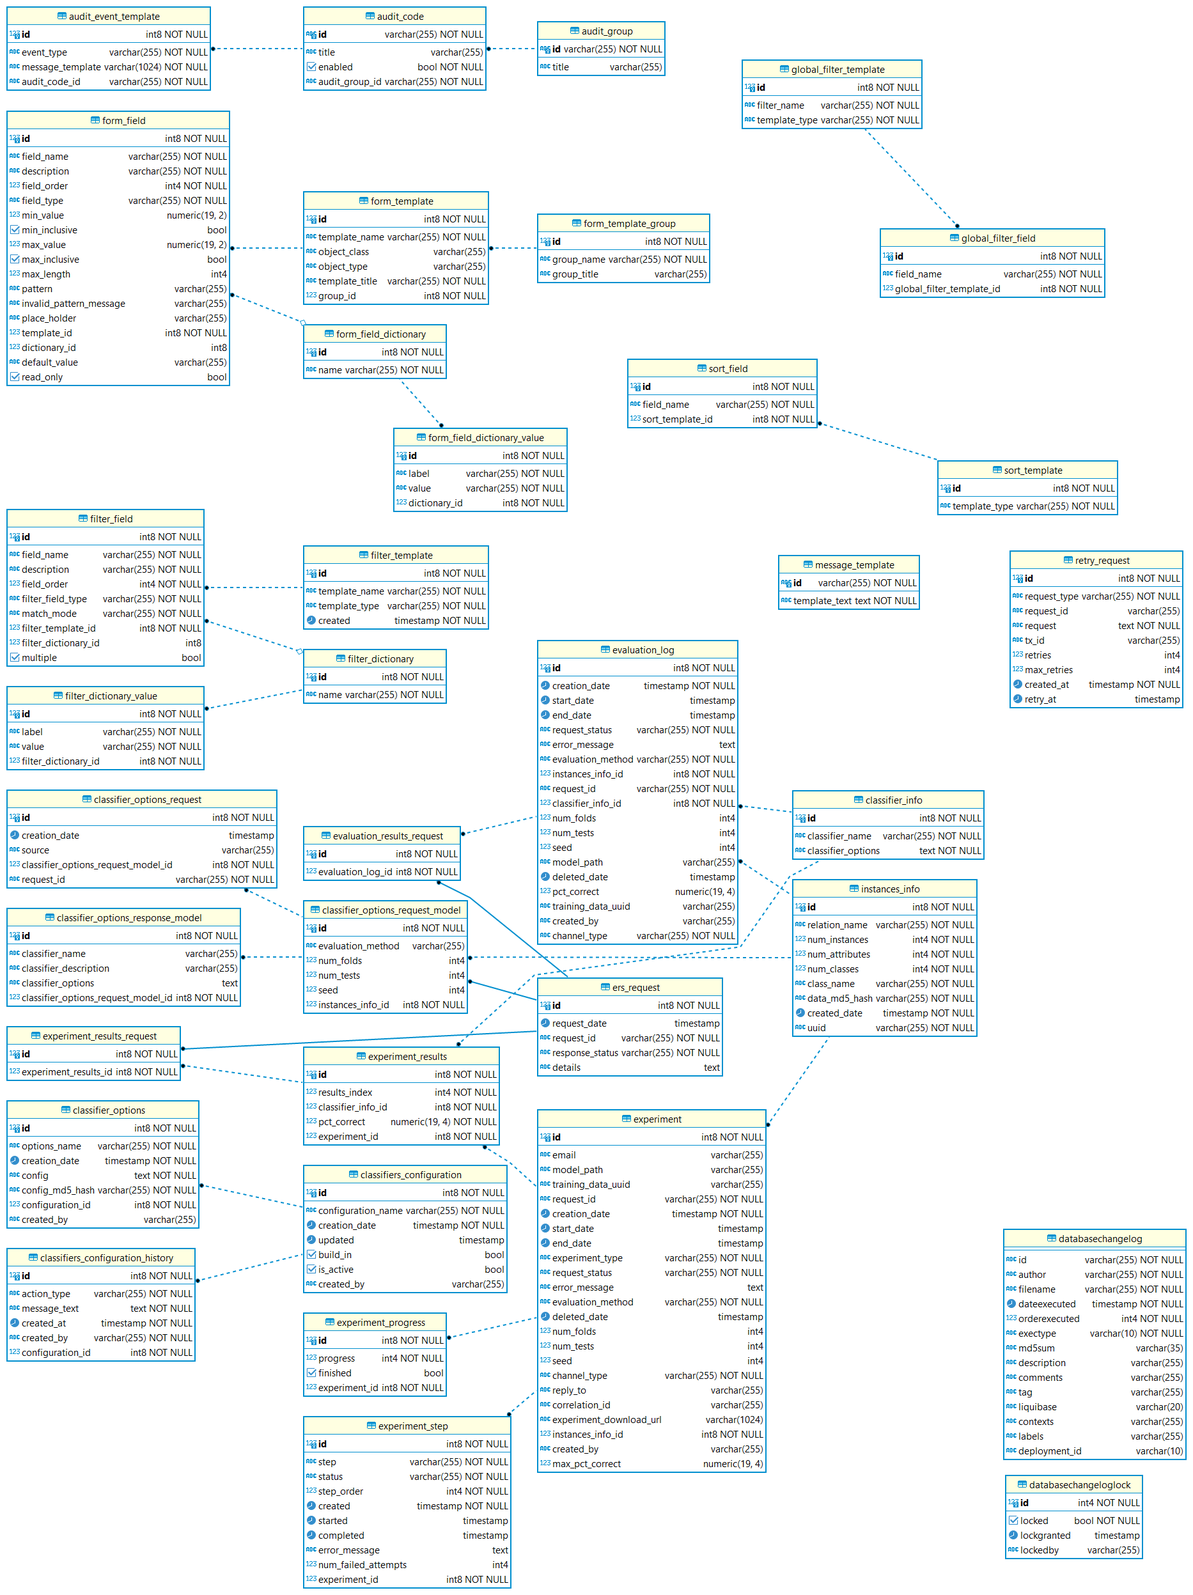
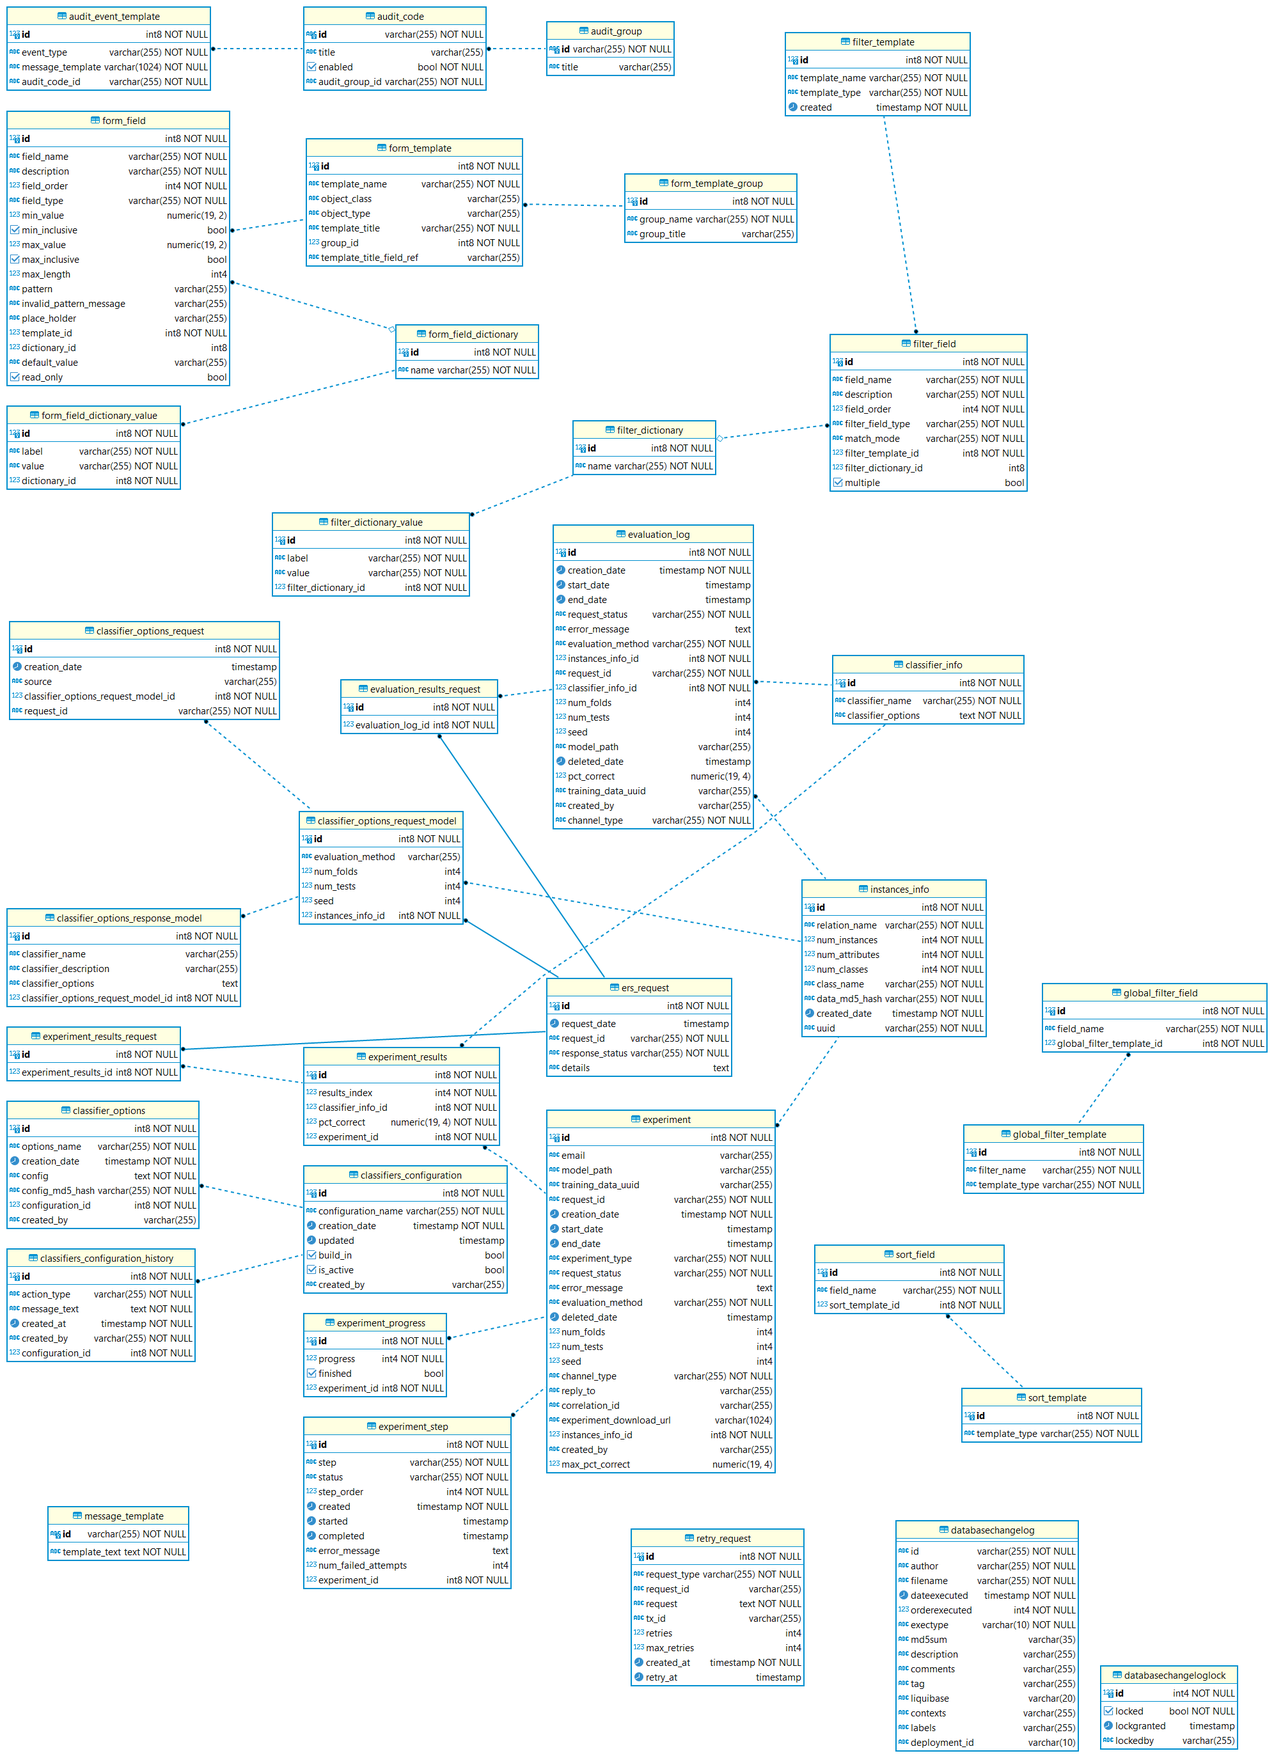
ECS-5 added FormTemplateDto#templateTitleFieldRef field

diff --git a/eca-server/src/test/java/com/ecaservice/server/service/classifiers/ClassifierOptionsServiceTest.java b/eca-server/src/test/java/com/ecaservice/server/service/classifiers/ClassifierOptionsServiceTest.java
@@ -1,6 +1,7 @@
 package com.ecaservice.server.service.classifiers;
 
 import com.ecaservice.classifier.options.model.AdaBoostOptions;
+import com.ecaservice.classifier.options.model.ClassifierOptions;
 import com.ecaservice.classifier.options.model.LogisticOptions;
 import com.ecaservice.common.web.exception.EntityNotFoundException;
 import com.ecaservice.core.filter.service.FilterTemplateService;
@@ -26,6 +27,8 @@ import com.google.common.collect.Sets;
 import org.junit.jupiter.api.Test;
 import org.springframework.boot.test.mock.mockito.MockBean;
 import org.springframework.context.annotation.Import;
+import org.testcontainers.shaded.com.fasterxml.jackson.core.JsonProcessingException;
+import org.testcontainers.shaded.com.fasterxml.jackson.databind.ObjectMapper;
 
 import javax.inject.Inject;
 import java.util.Arrays;
@@ -35,9 +38,11 @@ import java.util.Set;
 
 import static com.ecaservice.server.TestHelperUtils.createClassifierOptionsDatabaseModel;
 import static com.ecaservice.server.TestHelperUtils.createClassifiersConfiguration;
+import static com.ecaservice.server.TestHelperUtils.createLogisticOptions;
 import static com.ecaservice.server.model.entity.ClassifierOptionsDatabaseModel_.CREATION_DATE;
 import static org.assertj.core.api.Assertions.assertThat;
 import static org.junit.jupiter.api.Assertions.assertThrows;
+import static org.mockito.ArgumentMatchers.any;
 import static org.mockito.ArgumentMatchers.anyMap;
 import static org.mockito.ArgumentMatchers.anyString;
 import static org.mockito.Mockito.when;
@@ -54,7 +59,6 @@ class ClassifierOptionsServiceTest extends AbstractJpaTest {
 
     private static final int PAGE_NUMBER = 0;
     private static final int PAGE_SIZE = 10;
-    private static final String OPTIONS = "options";
     private static final long ID = 1L;
     private static final String USER_NAME = "user";
     private static final String MESSAGE = "message";
@@ -79,8 +83,13 @@ class ClassifierOptionsServiceTest extends AbstractJpaTest {
     @Inject
     private ClassifierOptionsService classifierOptionsService;
 
+    private final ObjectMapper objectMapper = new ObjectMapper();
+
+    private String optionsJson;
+
     @Override
-    public void init() {
+    public void init() throws JsonProcessingException {
+        optionsJson = objectMapper.writeValueAsString(createLogisticOptions());
         when(userService.getCurrentUser()).thenReturn(USER_NAME);
         var formTemplate = new FormTemplateDto();
         formTemplate.setTemplateTitle(TEMPLATE_TITLE);
@@ -97,7 +106,7 @@ class ClassifierOptionsServiceTest extends AbstractJpaTest {
 
     @Test
     void testGetClassifiersOptionsPage() {
-        when(classifierOptionsProcessor.processInputOptions(anyString()))
+        when(classifierOptionsProcessor.processInputOptions(any(ClassifierOptions.class)))
                 .thenReturn(Collections.singletonList(new InputOptionDto()));
         ClassifierOptionsDatabaseModel classifierOptionsDatabaseModel = saveClassifierOptions(true);
         PageRequestDto pageRequestDto =
@@ -143,7 +152,7 @@ class ClassifierOptionsServiceTest extends AbstractJpaTest {
     void testDeleteOptionsForActiveConfiguration() {
         ClassifierOptionsDatabaseModel classifierOptionsDatabaseModel = saveClassifierOptions(false);
         classifierOptionsDatabaseModelRepository.save(
-                createClassifierOptionsDatabaseModel(OPTIONS, classifierOptionsDatabaseModel.getConfiguration()));
+                createClassifierOptionsDatabaseModel(optionsJson, classifierOptionsDatabaseModel.getConfiguration()));
         classifierOptionsService.deleteOptions(classifierOptionsDatabaseModel.getId());
         ClassifierOptionsDatabaseModel actualOptions =
                 classifierOptionsDatabaseModelRepository.findById(classifierOptionsDatabaseModel.getId()).orElse(null);
@@ -161,7 +170,7 @@ class ClassifierOptionsServiceTest extends AbstractJpaTest {
         classifiersConfiguration.setBuildIn(false);
         classifiersConfigurationRepository.save(classifiersConfiguration);
         ClassifierOptionsDatabaseModel classifierOptionsDatabaseModel = classifierOptionsDatabaseModelRepository.save(
-                createClassifierOptionsDatabaseModel(OPTIONS, classifiersConfiguration));
+                createClassifierOptionsDatabaseModel(optionsJson, classifiersConfiguration));
         classifierOptionsService.deleteOptions(classifierOptionsDatabaseModel.getId());
         ClassifierOptionsDatabaseModel actualOptions =
                 classifierOptionsDatabaseModelRepository.findById(classifierOptionsDatabaseModel.getId()).orElse(null);
@@ -181,7 +190,7 @@ class ClassifierOptionsServiceTest extends AbstractJpaTest {
         classifiersConfiguration.setBuildIn(false);
         classifiersConfigurationRepository.save(classifiersConfiguration);
         ClassifierOptionsDatabaseModel classifierOptionsDatabaseModel =
-                createClassifierOptionsDatabaseModel(OPTIONS, classifiersConfiguration);
+                createClassifierOptionsDatabaseModel(optionsJson, classifiersConfiguration);
         classifierOptionsDatabaseModelRepository.save(classifierOptionsDatabaseModel);
         assertThrows(IllegalStateException.class,
                 () -> classifierOptionsService.deleteOptions(classifierOptionsDatabaseModel.getId()));
@@ -247,7 +256,7 @@ class ClassifierOptionsServiceTest extends AbstractJpaTest {
     void testUpdateNotBuildInClassifiersConfigurationOptions() {
         ClassifierOptionsDatabaseModel classifierOptionsDatabaseModel = saveClassifierOptions(false);
         Set<ClassifierOptionsDatabaseModel> classifierOptionsDatabaseModels = Sets.newHashSet(Collections.singletonList(
-                createClassifierOptionsDatabaseModel(OPTIONS, classifierOptionsDatabaseModel.getConfiguration())));
+                createClassifierOptionsDatabaseModel(optionsJson, classifierOptionsDatabaseModel.getConfiguration())));
         assertThrows(IllegalStateException.class, () -> classifierOptionsService.updateBuildInClassifiersConfiguration(
                 classifierOptionsDatabaseModel.getConfiguration(), classifierOptionsDatabaseModels));
     }
@@ -266,7 +275,7 @@ class ClassifierOptionsServiceTest extends AbstractJpaTest {
         classifiersConfiguration.setBuildIn(true);
         classifiersConfigurationRepository.save(classifiersConfiguration);
         classifierOptionsService.updateBuildInClassifiersConfiguration(classifiersConfiguration, Sets.newHashSet(
-                Collections.singletonList(createClassifierOptionsDatabaseModel(OPTIONS, classifiersConfiguration))));
+                Collections.singletonList(createClassifierOptionsDatabaseModel(optionsJson, classifiersConfiguration))));
         assertThat(classifierOptionsDatabaseModelRepository.count()).isOne();
         ClassifiersConfiguration actualConfiguration =
                 classifiersConfigurationRepository.findById(classifiersConfiguration.getId()).orElse(null);
@@ -345,7 +354,7 @@ class ClassifierOptionsServiceTest extends AbstractJpaTest {
         classifiersConfiguration.setBuildIn(buildIn);
         classifiersConfigurationRepository.save(classifiersConfiguration);
         ClassifierOptionsDatabaseModel classifierOptionsDatabaseModel =
-                createClassifierOptionsDatabaseModel(OPTIONS, classifiersConfiguration);
+                createClassifierOptionsDatabaseModel(optionsJson, classifiersConfiguration);
         return classifierOptionsDatabaseModelRepository.save(classifierOptionsDatabaseModel);
     }
 

diff --git a/eca-server/src/main/java/com/ecaservice/server/service/classifiers/ClassifierOptionsProcessor.java b/eca-server/src/main/java/com/ecaservice/server/service/classifiers/ClassifierOptionsProcessor.java
@@ -5,13 +5,11 @@ import com.ecaservice.classifier.options.model.AbstractHeterogeneousClassifierOp
 import com.ecaservice.classifier.options.model.ClassifierOptions;
 import com.ecaservice.classifier.options.model.StackingOptions;
 import com.ecaservice.common.web.expression.SpelExpressionHelper;
-import com.ecaservice.core.filter.service.FilterTemplateService;
 import com.ecaservice.server.model.entity.ClassifierInfo;
 import com.ecaservice.web.dto.model.ClassifierInfoDto;
 import com.ecaservice.web.dto.model.FieldDictionaryDto;
 import com.ecaservice.web.dto.model.FieldDictionaryValueDto;
 import com.ecaservice.web.dto.model.FieldType;
-import com.ecaservice.web.dto.model.FilterDictionaryValueDto;
 import com.ecaservice.web.dto.model.FormFieldDto;
 import com.ecaservice.web.dto.model.FormTemplateDto;
 import com.ecaservice.web.dto.model.InputOptionDto;
@@ -28,7 +26,6 @@ import java.util.List;
 import java.util.Objects;
 import java.util.stream.Collectors;
 
-import static com.ecaservice.server.service.filter.dictionary.FilterDictionaries.CLASSIFIER_NAME;
 import static com.ecaservice.server.util.ClassifierOptionsHelper.isEnsembleClassifierOptions;
 import static com.ecaservice.server.util.ClassifierOptionsHelper.parseOptions;
 import static com.ecaservice.server.util.ClassifierOptionsHelper.toJsonString;
@@ -48,7 +45,6 @@ public class ClassifierOptionsProcessor {
     private static final DecimalFormat DEFAULT_DECIMAL_FORMAT = NumericFormatFactory.getInstance(Integer.MAX_VALUE);
 
     private final ClassifiersTemplateProvider classifiersTemplateProvider;
-    private final FilterTemplateService filterTemplateService;
     private final ClassifiersOptionsConfig classifiersOptionsConfig;
     private final SpelExpressionHelper spelExpressionHelper = new SpelExpressionHelper();
 
@@ -65,12 +61,11 @@ public class ClassifierOptionsProcessor {
     /**
      * Processes classifier input options json string to human readable format.
      *
-     * @param classifierOptionsJson - classifier options json
+     * @param classifierOptions - classifier options
      * @return classifier options list
      */
-    public List<InputOptionDto> processInputOptions(String classifierOptionsJson) {
-        log.debug("Starting to process classifier options json [{}]", classifierOptionsJson);
-        var classifierOptions = parseOptions(classifierOptionsJson);
+    public List<InputOptionDto> processInputOptions(ClassifierOptions classifierOptions) {
+        log.debug("Starting to process classifier options json [{}]", classifierOptions);
         var template = getTemplate(classifierOptions);
         var inputOptions = processInputOptions(template, classifierOptions);
         log.debug("Classifier options json has been processed with result: {}", inputOptions);
@@ -86,11 +81,7 @@ public class ClassifierOptionsProcessor {
     public ClassifierInfoDto processClassifierInfo(ClassifierInfo classifierInfo) {
         log.debug("Starting to process classifier info [{}]", classifierInfo.getClassifierName());
         var classifierOptions = parseOptions(classifierInfo.getClassifierOptions());
-        ClassifierInfoDto classifierInfoDto = processClassifierOptions(classifierOptions);
-        classifierInfoDto.setClassifierName(classifierInfo.getClassifierName());
-        var classifierName = getClassifierNameLabel(classifierInfo.getClassifierName());
-        classifierInfoDto.setClassifierDescription(classifierName);
-        return classifierInfoDto;
+        return processClassifierOptions(classifierOptions);
     }
 
     /**
@@ -102,8 +93,9 @@ public class ClassifierOptionsProcessor {
     public ClassifierInfoDto processClassifierOptions(ClassifierOptions classifierOptions) {
         ClassifierInfoDto classifierInfoDto = new ClassifierInfoDto();
         var template = getTemplate(classifierOptions);
+        String templateTitle = processTemplateTitle(template, classifierOptions);
         classifierInfoDto.setClassifierName(template.getObjectClass());
-        classifierInfoDto.setClassifierDescription(template.getTemplateTitle());
+        classifierInfoDto.setClassifierDescription(templateTitle);
         classifierInfoDto.setClassifierOptionsJson(toJsonString(classifierOptions));
         var inputOptions = processInputOptions(template, classifierOptions);
         classifierInfoDto.setInputOptions(inputOptions);
@@ -111,6 +103,28 @@ public class ClassifierOptionsProcessor {
         log.debug("Classifier options class [{}] has been processed with result: {}",
                 classifierOptions.getClass().getSimpleName(), classifierInfoDto);
         return classifierInfoDto;
+    }
+
+    /**
+     * Processes template title.
+     *
+     * @param formTemplateDto   - form template dto
+     * @param classifierOptions - classifier options
+     * @return template title
+     */
+    public String processTemplateTitle(FormTemplateDto formTemplateDto, ClassifierOptions classifierOptions) {
+        if (StringUtils.isNotEmpty(formTemplateDto.getTemplateTitleFieldRef())) {
+            FormFieldDto formFieldDto = formTemplateDto.getFields()
+                    .stream()
+                    .filter(field -> field.getFieldName().equals(formTemplateDto.getTemplateTitleFieldRef()))
+                    .findFirst()
+                    .orElseThrow(() -> new IllegalStateException(
+                            String.format("Can't find form template [%s] title field ref [%s]",
+                                    formTemplateDto.getTemplateName(), formTemplateDto.getTemplateTitleFieldRef())));
+            return getValue(classifierOptions, formFieldDto);
+        } else {
+            return formTemplateDto.getTemplateTitle();
+        }
     }
 
     private void customizeClassifierInfo(ClassifierInfoDto classifierInfoDto, ClassifierOptions classifierOptions) {
@@ -192,16 +206,6 @@ public class ClassifierOptionsProcessor {
             return decimalFormat.format(numberValue);
         }
         return String.valueOf(value);
-    }
-
-    private String getClassifierNameLabel(String classifierName) {
-        var classifiersDictionary = filterTemplateService.getFilterDictionary(CLASSIFIER_NAME);
-        return classifiersDictionary.getValues()
-                .stream()
-                .filter(fieldDictionaryValue -> fieldDictionaryValue.getValue().equals(classifierName))
-                .map(FilterDictionaryValueDto::getLabel)
-                .findFirst()
-                .orElse(null);
     }
 
     private String getLabelFromDictionary(FieldDictionaryDto fieldDictionary, String code) {

diff --git a/eca-server/src/test/java/com/ecaservice/server/service/classifiers/ClassifierOptionsProcessorTest.java b/eca-server/src/test/java/com/ecaservice/server/service/classifiers/ClassifierOptionsProcessorTest.java
@@ -2,7 +2,6 @@ package com.ecaservice.server.service.classifiers;
 
 import com.ecaservice.classifier.options.config.ClassifiersOptionsConfig;
 import com.ecaservice.classifier.options.model.ClassifierOptions;
-import com.ecaservice.core.filter.service.FilterTemplateService;
 import com.ecaservice.core.form.template.service.FormTemplateProvider;
 import com.ecaservice.server.config.ClassifiersProperties;
 import com.ecaservice.web.dto.model.ClassifierInfoDto;
@@ -30,7 +29,6 @@ import static com.ecaservice.server.TestHelperUtils.createAdaBoostOptions;
 import static com.ecaservice.server.TestHelperUtils.createClassifierInfo;
 import static com.ecaservice.server.TestHelperUtils.createDecisionTreeOptions;
 import static com.ecaservice.server.TestHelperUtils.createExtraTreesOptions;
-import static com.ecaservice.server.TestHelperUtils.createFilterDictionaryDto;
 import static com.ecaservice.server.TestHelperUtils.createHeterogeneousClassifierOptions;
 import static com.ecaservice.server.TestHelperUtils.createJ48Options;
 import static com.ecaservice.server.TestHelperUtils.createKNearestNeighboursOptions;
@@ -40,7 +38,6 @@ import static com.ecaservice.server.TestHelperUtils.createRandomForestsOptions;
 import static com.ecaservice.server.TestHelperUtils.createStackingOptions;
 import static com.ecaservice.server.TestHelperUtils.loadClassifiersTemplates;
 import static com.ecaservice.server.TestHelperUtils.loadEnsembleClassifiersTemplates;
-import static com.ecaservice.server.service.filter.dictionary.FilterDictionaries.CLASSIFIER_NAME;
 import static org.assertj.core.api.Assertions.assertThat;
 import static org.assertj.core.api.Assertions.fail;
 import static org.mockito.Mockito.when;
@@ -122,8 +119,6 @@ class ClassifierOptionsProcessorTest {
 
     @MockBean
     private FormTemplateProvider formTemplateProvider;
-    @MockBean
-    private FilterTemplateService filterTemplateService;
 
     @Inject
     private ClassifierOptionsProcessor classifierOptionsProcessor;
@@ -136,7 +131,6 @@ class ClassifierOptionsProcessorTest {
         FormTemplateGroupDto ensembleTemplates = loadEnsembleClassifiersTemplates();
         when(formTemplateProvider.getFormGroupDto(CLASSIFIERS)).thenReturn(templates);
         when(formTemplateProvider.getFormGroupDto(ENSEMBLE_CLASSIFIERS)).thenReturn(ensembleTemplates);
-        when(filterTemplateService.getFilterDictionary(CLASSIFIER_NAME)).thenReturn(createFilterDictionaryDto());
         classifierOptionsProcessor.initialize();
     }
 
@@ -532,9 +526,8 @@ class ClassifierOptionsProcessorTest {
         });
     }
 
-    private List<InputOptionDto> parseInputOptions(ClassifierOptions classifierOptions) throws JsonProcessingException {
-        var json = objectMapper.writeValueAsString(classifierOptions);
-        return classifierOptionsProcessor.processInputOptions(json);
+    private List<InputOptionDto> parseInputOptions(ClassifierOptions classifierOptions) {
+        return classifierOptionsProcessor.processInputOptions(classifierOptions);
     }
 
     private ClassifierInfoDto processClassifierOptions(ClassifierOptions classifierOptions) {

diff --git a/eca-server/src/main/java/com/ecaservice/server/service/classifiers/ClassifierOptionsService.java b/eca-server/src/main/java/com/ecaservice/server/service/classifiers/ClassifierOptionsService.java
@@ -35,6 +35,7 @@ import static com.ecaservice.server.model.entity.ClassifierOptionsDatabaseModel_
 import static com.ecaservice.server.model.entity.FilterTemplateType.CLASSIFIER_OPTIONS;
 import static com.ecaservice.server.util.ClassifierOptionsHelper.createClassifierOptionsDatabaseModel;
 import static com.ecaservice.server.util.ClassifierOptionsHelper.isEnsembleClassifierOptions;
+import static com.ecaservice.server.util.ClassifierOptionsHelper.parseOptions;
 
 /**
  * Classifier options service.
@@ -116,7 +117,7 @@ public class ClassifierOptionsService {
      */
     public PageDto<ClassifierOptionsDto> getNextPage(long configurationId,
                                                      @ValidPageRequest(filterTemplateName = CLASSIFIER_OPTIONS)
-                                                     PageRequestDto pageRequestDto) {
+                                                             PageRequestDto pageRequestDto) {
         log.info("Gets classifiers configuration [{}] options next page: {}", configurationId, pageRequestDto);
         var classifiersConfiguration = getConfigurationById(configurationId);
         var sort = buildSort(pageRequestDto.getSortField(), CREATION_DATE, pageRequestDto.isAscending());
@@ -199,10 +200,13 @@ public class ClassifierOptionsService {
     private ClassifierOptionsDto internalPopulateClassifierOptions(
             ClassifierOptionsDatabaseModel classifierOptionsDatabaseModel) {
         var classifierOptionsDto = classifierOptionsDatabaseModelMapper.map(classifierOptionsDatabaseModel);
-        var inputOptions = classifierOptionsProcessor.processInputOptions(classifierOptionsDto.getConfig());
+        var classifierOptions = parseOptions(classifierOptionsDto.getConfig());
+        var inputOptions = classifierOptionsProcessor.processInputOptions(classifierOptions);
         var classifierFormTemplate =
                 classifiersTemplateProvider.getClassifierTemplateByClass(classifierOptionsDto.getOptionsName());
-        classifierOptionsDto.setOptionsDescription(classifierFormTemplate.getTemplateTitle());
+        String optionsDescription =
+                classifierOptionsProcessor.processTemplateTitle(classifierFormTemplate, classifierOptions);
+        classifierOptionsDto.setOptionsDescription(optionsDescription);
         classifierOptionsDto.setInputOptions(inputOptions);
         return classifierOptionsDto;
     }

diff --git a/eca-web-transport/src/main/java/com/ecaservice/web/dto/model/FormTemplateDto.java b/eca-web-transport/src/main/java/com/ecaservice/web/dto/model/FormTemplateDto.java
@@ -30,6 +30,13 @@ public class FormTemplateDto {
     private String templateTitle;
 
     /**
+     * Template title field ref (used to get title from specified field value)
+     */
+    @Schema(description = "Template title field ref (used to get title from specified field value)",
+            example = "field.type", maxLength = MAX_LENGTH_255)
+    private String templateTitleFieldRef;
+
+    /**
      * Object class
      */
     @Schema(description = "Object class", example = "Object", maxLength = MAX_LENGTH_255)

diff --git a/core-form-template/src/main/java/com/ecaservice/core/form/template/entity/FormTemplateEntity.java b/core-form-template/src/main/java/com/ecaservice/core/form/template/entity/FormTemplateEntity.java
@@ -53,6 +53,12 @@ public class FormTemplateEntity {
     private String templateTitle;
 
     /**
+     * Template title field reference (used to get title from specified field value)
+     */
+    @Column(name = "template_title_field_ref")
+    private String templateTitleFieldRef;
+
+    /**
      * Fields list
      */
     @OneToMany(cascade = CascadeType.ALL, fetch = FetchType.EAGER)
